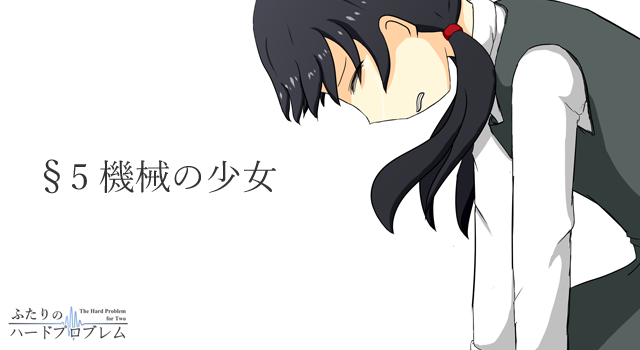
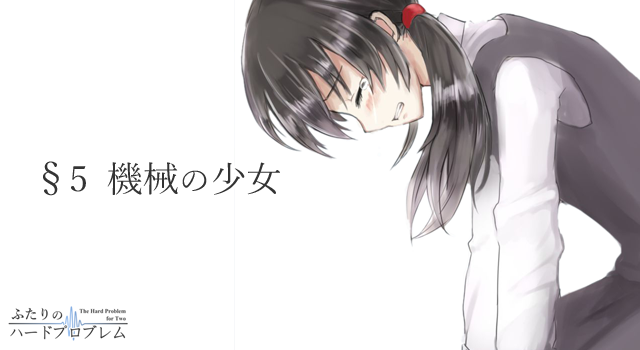
絵をれーちぇさんのものに変更！

diff --git a/novel.html b/novel.html
@@ -35,7 +35,11 @@
       <tr class="noveldata2"><td>暗黒定数式 <a href="http://dark-constexpr.github.io/publications/vol1.html" target="_blank">Vol.1</a> / <a href="http://dark-constexpr.github.io/publications/vol2.html" target="_blank">Vol.2</a></td></tr>
       <tr class="noveldata2"><td><a href="http://ncode.syosetu.com/n9592cf/" target="_blank">小説家になろう</a></td></tr>
       <tr>
-        <td class="novelabst" colspan="5"><p>――機械になりたい、って思った。いまでもそう思ってる。</p><p>不登校の大学五年生、青山希海はひょんなことから記憶を失ったアンドロイドの少女を預かることになった。突然始まった共同生活を通じて希海は次第に少女と心を通わせていく。</p></td>
+        <td class="novelabst" colspan="5">
+          <p>――機械になりたい、って思った。いまでもそう思ってる。</p>
+          <p>不登校の大学五年生、青山希海はひょんなことから記憶を失ったアンドロイドの少女を預かることになった。突然始まった共同生活を通じて希海は次第に少女と心を通わせていく。</p>
+          <p style="text-align:right;">絵：<a href="http://www.pixiv.net/member.php?id=10662" target="_blank">れーちぇ</a></p>
+        </td>
       </tr>
     </tbody>
   </table>
